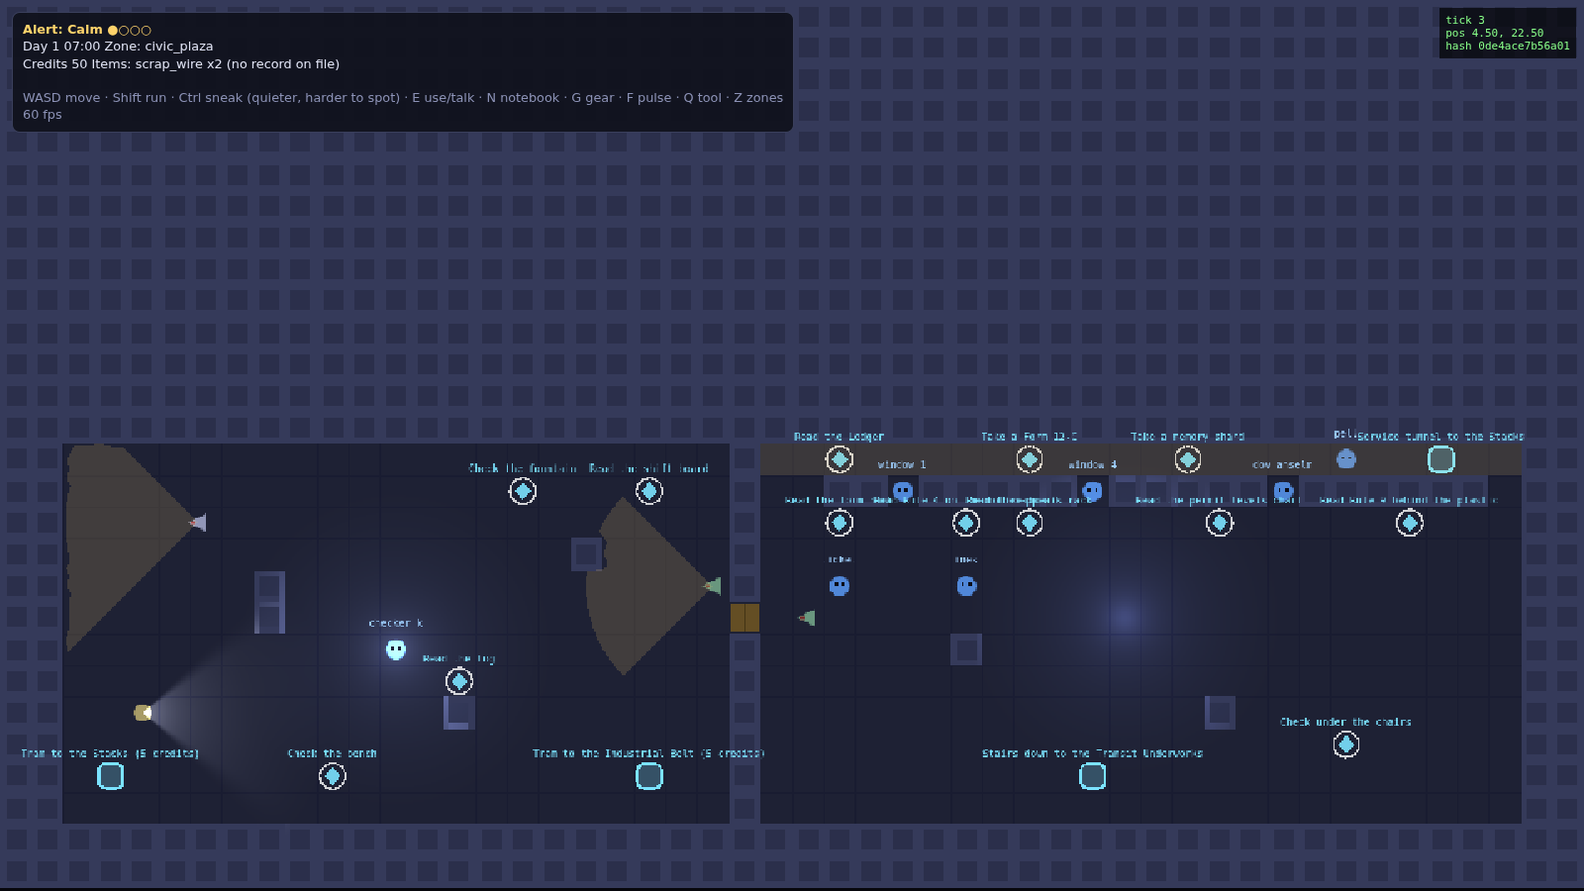
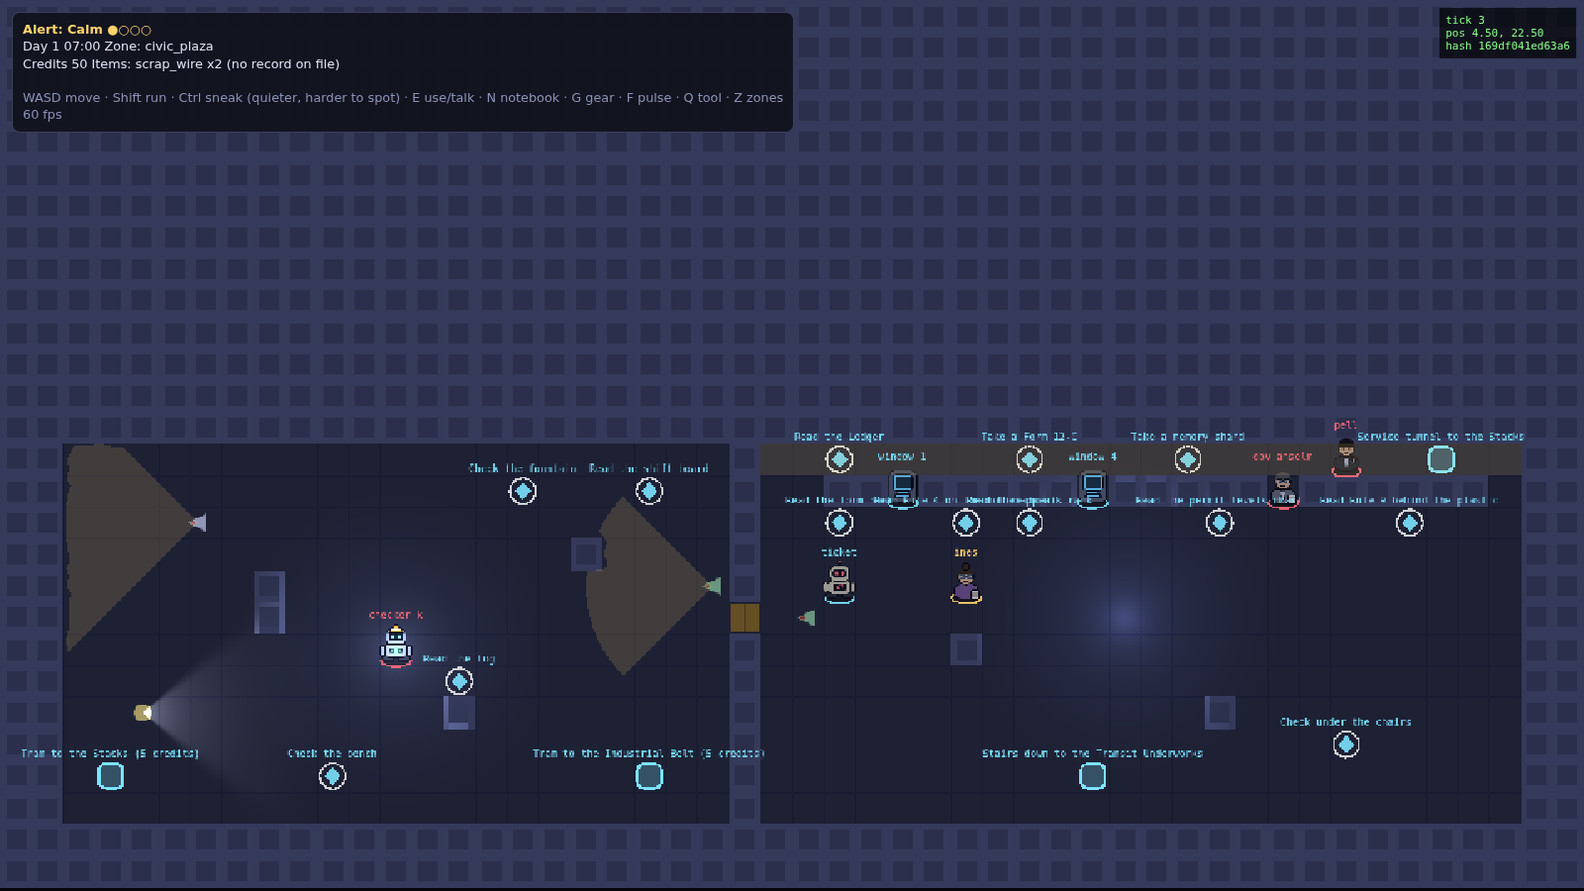
NPC look: a distinct figure for every named person, rings, idle life, Brindle's notes, debug gallery and refreshed screenshots

diff --git a/packages/client/src/render/npcLooks.ts b/packages/client/src/render/npcLooks.ts
@@ -1,0 +1,247 @@
+/**
+ * Who everybody is, to look at. Every named person gets their own little figure, drawn from a handful of shapes
+ * (a person, a robot, a machine) and a tray of accessories, so the four mentors, Pallas, Brindle and the Gate's voice
+ * can be told apart across a room. Pure canvas drawing: no art files. The table is data; add a line to add a face.
+ *
+ * Drawn on a 64x64 canvas, shown at about a tile and a bit.
+ */
+
+export type Extra =
+  | "glasses" | "headphones" | "conductor_cap" | "hardhat" | "helmet" | "antenna" | "cracked_visor" | "chest_lamp" | "badge"
+  | "scarf" | "satchel" | "pigeon" | "tie" | "apron" | "wheels" | "notes" | "eye" | "megaphone" | "train_face" | "papers"
+  | "wrench" | "bun" | "bushy" | "flat_cap" | "hood" | "cardigan" | "lab_coat" | "shawl" | "slick" | "number" | "window"
+  | "mug" | "pads" | "cone" | "sprout" | "bow" | "stubble" | "visor_scan";
+
+export interface Look {
+  form: "human" | "robot" | "machine";
+  body: string;
+  accent: string;
+  skin?: string;
+  hair?: string;
+  extras: Extra[];
+  /** The ring under their feet: gold for the four mentors, teal for those who might come with you, red for officials, cyan for machines. */
+  ring: string;
+}
+
+const GOLD = "#ffd36b";
+const TEAL = "#2affd5";
+const RED = "#ff6b7a";
+const CYAN = "#7be3ff";
+const NONE = "#5a6080";
+
+const L = (form: Look["form"], body: string, accent: string, extras: Extra[], more: Partial<Look> = {}): Look => ({ form, body, accent, extras, ring: NONE, ...more });
+
+export const NPC_LOOKS: Record<string, Look> = {
+  // the four mentors
+  ines: L("human", "#7a5a8e", "#f0e2b0", ["bun", "glasses", "papers"], { skin: "#e3b98f", hair: "#3b2a24", ring: GOLD }),
+  maren: L("human", "#2c5a8c", "#ffd36b", ["conductor_cap", "badge"], { skin: "#8d5a3b", hair: "#161616", ring: GOLD }),
+  tobias: L("human", "#4b5543", "#a9b596", ["helmet", "pads", "stubble"], { skin: "#c99a74", hair: "#9a9a9a", ring: GOLD }),
+  silas: L("human", "#b8743a", "#f4dca4", ["bushy", "cardigan", "mug"], { skin: "#e8bf9b", hair: "#dcdcdc", ring: GOLD }),
+  // the cell and its neighbours
+  wren: L("human", "#3b6c5b", "#ffb36b", ["scarf"], { skin: "#d9a98a", hair: "#2a1a14" }),
+  pallas: L("robot", "#8c9eac", TEAL, ["cracked_visor", "wrench", "antenna"], { ring: TEAL }),
+  odd_sam: L("human", "#5b3a6e", GOLD, ["flat_cap", "tie"], { skin: "#c8a07a", hair: "#2a2a2a" }),
+  doc_perrin: L("human", "#e6edf2", "#6fb7ff", ["lab_coat", "glasses", "bushy", "pigeon"], { skin: "#e2b790", hair: "#8d8d8d" }),
+  teeter: L("human", "#8a3d3d", GOLD, ["headphones"], { skin: "#d4a47e", hair: "#3a2218" }),
+  mrs_adeyemi_roth: L("human", "#7a5a8a", "#e8d8f0", ["shawl", "bun", "glasses"], { skin: "#8a5a3e", hair: "#d8d8d8" }),
+  // the Core and the Belt
+  dov_anselm: L("human", "#6e7078", "#d0d4dc", ["tie", "glasses", "papers"], { skin: "#dcb18c", hair: "#555", ring: RED }),
+  pell: L("human", "#1f2638", "#c9d4e8", ["slick", "badge", "tie"], { skin: "#dbb28e", hair: "#15151a", ring: RED }),
+  gus_varga: L("human", "#7a6a2f", "#e8c860", ["hardhat", "apron", "mug"], { skin: "#c99874", hair: "#777" }),
+  brindle: L("robot", "#c4a263", "#ffd36b", ["wheels", "notes"], { ring: TEAL }),
+  window_1: L("machine", "#566070", CYAN, ["window"], { ring: CYAN }),
+  window_4: L("machine", "#566070", CYAN, ["window"], { ring: CYAN }),
+  ticket: L("robot", "#d8d0b0", "#ff6b7a", ["number", "antenna"], { ring: CYAN }),
+  checker_k: L("robot", "#7d8794", "#6bff9a", ["cone", "chest_lamp"], { ring: RED }),
+  // under the city
+  quill: L("human", "#2b394a", TEAL, ["hood", "satchel"], { skin: "#d1a07c", hair: "#222" }),
+  conductor: L("machine", "#6a2f2f", GOLD, ["train_face"], { ring: CYAN }),
+  gate_voice: L("machine", "#20243a", "#ff5a5a", ["eye"], { ring: RED }),
+  civic_voice: L("machine", "#d8dce8", "#7be3ff", ["megaphone"], { ring: CYAN }),
+  halloran_7: L("robot", "#2b2f3d", "#ff6b7a", ["badge", "visor_scan", "tie"], { ring: RED }),
+  // beyond
+  marrow: L("human", "#5a6b3c", "#e8d8a0", ["shawl", "bushy"], { skin: "#7e5236", hair: "#cfcfcf", ring: TEAL }),
+  juniper: L("human", "#e0a040", "#fff0c0", ["bow", "sprout"], { skin: "#a8744f", hair: "#2a1a14", ring: TEAL }),
+  bede: L("human", "#5f8a3c", "#d8f0a0", ["flat_cap", "sprout"], { skin: "#d1a07c", hair: "#5a3a22" }),
+  odile: L("human", "#a98ac0", "#f0e0ff", ["shawl", "bun"], { skin: "#e6c3a4", hair: "#e0e0e0", ring: TEAL }),
+  lila_voss: L("human", "#c8707a", "#ffe0e0", ["bow"], { skin: "#e8c4a8", hair: "#4a2a2a" }),
+  host: L("robot", "#e8e0c8", "#ffb36b", ["tie", "antenna"], { ring: CYAN }),
+  mari_quade: L("human", "#c8503c", "#ffe0a0", ["apron", "flat_cap"], { skin: "#d6a67f", hair: "#222" }),
+};
+
+const HAIRS = ["#2a1a14", "#5a3a22", "#8a8a8a", "#1a1a1a", "#7a4a22"];
+const SKINS = ["#e3b98f", "#c99a74", "#8d5a3b", "#d6a67f", "#a8744f"];
+const BODIES = ["#4a6a8a", "#6a4a7a", "#4a7a5a", "#8a5a3a", "#5a5a7a"];
+
+/** The look for anyone not in the table: stable colours from their id, so a stranger is always the same stranger. */
+export function lookFor(id: string): Look {
+  const known = NPC_LOOKS[id];
+  if (known) return known;
+  let h = 7;
+  for (const ch of id) h = (h * 31 + ch.charCodeAt(0)) >>> 0;
+  const pick = <T>(a: T[], k: number): T => a[(h >>> k) % a.length]!;
+  return L("human", pick(BODIES, 1), "#e8e8f0", [pick<Extra>(["glasses", "flat_cap", "scarf", "bun", "bushy"], 4)], { skin: pick(SKINS, 7), hair: pick(HAIRS, 11) });
+}
+
+// ---- drawing ------------------------------------------------------------------------------------------------
+
+type C = CanvasRenderingContext2D;
+const S = 64;
+
+function rr(c: C, x: number, y: number, w: number, h: number, r: number, fill: string, stroke?: string): void {
+  c.beginPath();
+  c.roundRect(x, y, w, h, r);
+  c.fillStyle = fill;
+  c.fill();
+  if (stroke) { c.lineWidth = 2; c.strokeStyle = stroke; c.stroke(); }
+}
+function circle(c: C, x: number, y: number, r: number, fill: string, stroke?: string): void {
+  c.beginPath();
+  c.arc(x, y, r, 0, Math.PI * 2);
+  c.fillStyle = fill;
+  c.fill();
+  if (stroke) { c.lineWidth = 2; c.strokeStyle = stroke; c.stroke(); }
+}
+const OUT = "#0c0e18";
+
+export function drawLook(c: C, look: Look): void {
+  c.clearRect(0, 0, S, S);
+  c.lineJoin = "round";
+  c.lineCap = "round";
+  const has = (e: Extra) => look.extras.includes(e);
+  if (look.form === "human") drawHuman(c, look, has);
+  else if (look.form === "robot") drawRobot(c, look, has);
+  else drawMachine(c, look, has);
+  drawExtras(c, look, has);
+}
+
+function drawHuman(c: C, look: Look, has: (e: Extra) => boolean): void {
+  const skin = look.skin ?? "#e3b98f";
+  // shoulders and torso
+  rr(c, 12, 36, 40, 24, 12, look.body, OUT);
+  if (has("lab_coat")) { rr(c, 12, 36, 40, 24, 12, "#f2f6f8", OUT); c.fillStyle = look.body; c.fillRect(28, 38, 8, 20); }
+  if (has("apron")) { rr(c, 20, 42, 24, 18, 6, look.accent, OUT); }
+  if (has("cardigan")) { c.fillStyle = look.accent; c.fillRect(30, 38, 4, 20); for (const y of [42, 48, 54]) circle(c, 32, y, 1.6, "#5a3a1e"); }
+  // neck and head
+  rr(c, 28, 33, 8, 6, 2, skin);
+  circle(c, 32, 24, 13, skin, OUT);
+  // hair behind / on top
+  const hair = look.hair ?? "#2a1a14";
+  if (!has("flat_cap") && !has("conductor_cap") && !has("hardhat") && !has("helmet") && !has("hood") && !has("headphones")) {
+    c.beginPath(); c.arc(32, 22, 13.5, Math.PI * 1.02, Math.PI * 1.98); c.closePath(); c.fillStyle = hair; c.fill();
+  }
+  if (has("slick")) { c.beginPath(); c.arc(32, 21, 13.5, Math.PI, Math.PI * 2); c.lineTo(45, 24); c.quadraticCurveTo(32, 15, 19, 24); c.fillStyle = hair; c.fill(); }
+  // face
+  circle(c, 27.5, 25, 1.9, OUT); circle(c, 36.5, 25, 1.9, OUT);
+  c.strokeStyle = OUT; c.lineWidth = 1.6; c.beginPath(); c.moveTo(29, 31); c.quadraticCurveTo(32, 33, 35, 31); c.stroke();
+}
+
+function drawRobot(c: C, look: Look, _has: (e: Extra) => boolean): void {
+  // treads / base
+  rr(c, 10, 52, 18, 9, 4, "#2a2f3c", OUT); rr(c, 36, 52, 18, 9, 4, "#2a2f3c", OUT);
+  // body
+  rr(c, 14, 33, 36, 22, 7, look.body, OUT);
+  rr(c, 22, 39, 20, 9, 3, "#14172a");
+  c.fillStyle = look.accent; c.fillRect(25, 42, 14, 3);
+  // head
+  rr(c, 16, 9, 32, 25, 8, look.body, OUT);
+  rr(c, 20, 15, 24, 12, 5, "#0b1220");
+  circle(c, 27, 21, 3, look.accent); circle(c, 37, 21, 3, look.accent);
+  // arms
+  rr(c, 6, 36, 8, 16, 4, look.body, OUT); rr(c, 50, 36, 8, 16, 4, look.body, OUT);
+}
+
+function drawMachine(c: C, look: Look, has: (e: Extra) => boolean): void {
+  rr(c, 10, 6, 44, 52, 10, look.body, OUT);
+  rr(c, 15, 12, 34, 28, 7, "#0b1220");
+  rr(c, 18, 44, 28, 8, 3, "#14172a");
+  c.fillStyle = look.accent; c.fillRect(22, 47, 20, 2);
+  if (!has("eye") && !has("train_face") && !has("window") && !has("megaphone")) circle(c, 32, 26, 6, look.accent);
+}
+
+function drawExtras(c: C, look: Look, has: (e: Extra) => boolean): void {
+  const skin = look.skin ?? "#e3b98f";
+  if (has("glasses")) {
+    c.strokeStyle = "#1a1a28"; c.lineWidth = 2;
+    c.strokeRect(22, 21, 8, 6); c.strokeRect(34, 21, 8, 6);
+    c.beginPath(); c.moveTo(30, 24); c.lineTo(34, 24); c.stroke();
+    c.fillStyle = "rgba(160,220,255,0.35)"; c.fillRect(22, 21, 8, 6); c.fillRect(34, 21, 8, 6);
+  }
+  if (has("headphones")) {
+    c.strokeStyle = "#202330"; c.lineWidth = 4; c.beginPath(); c.arc(32, 22, 14, Math.PI * 1.05, Math.PI * 1.95); c.stroke();
+    rr(c, 14, 20, 6, 11, 3, look.accent, OUT); rr(c, 44, 20, 6, 11, 3, look.accent, OUT);
+  }
+  if (has("conductor_cap")) {
+    c.beginPath(); c.arc(32, 18, 14, Math.PI, Math.PI * 2); c.closePath(); c.fillStyle = look.body; c.fill(); c.strokeStyle = OUT; c.lineWidth = 2; c.stroke();
+    rr(c, 17, 17, 30, 5, 2, "#1a1f2e", OUT); rr(c, 28, 10, 8, 6, 2, look.accent, OUT);
+  }
+  if (has("hardhat")) {
+    c.beginPath(); c.arc(32, 19, 14.5, Math.PI, Math.PI * 2); c.closePath(); c.fillStyle = "#f2c230"; c.fill(); c.strokeStyle = OUT; c.lineWidth = 2; c.stroke();
+    rr(c, 15, 18, 34, 5, 2, "#d9a81e", OUT); rr(c, 29, 8, 6, 8, 2, "#d9a81e", OUT);
+  }
+  if (has("helmet")) {
+    c.beginPath(); c.arc(32, 20, 15, Math.PI * 0.95, Math.PI * 2.05); c.closePath(); c.fillStyle = "#59634e"; c.fill(); c.strokeStyle = OUT; c.lineWidth = 2; c.stroke();
+    rr(c, 20, 19, 24, 7, 3, "rgba(20,28,40,0.75)", OUT);
+    c.fillStyle = look.accent; c.fillRect(29, 9, 6, 4);
+  }
+  if (has("flat_cap")) {
+    c.beginPath(); c.ellipse(32, 15, 15, 7, 0, Math.PI, Math.PI * 2); c.fillStyle = look.body; c.fill(); c.strokeStyle = OUT; c.lineWidth = 2; c.stroke();
+    rr(c, 30, 13, 20, 5, 2, look.body, OUT);
+  }
+  if (has("hood")) {
+    c.beginPath(); c.arc(32, 24, 17, Math.PI * 0.85, Math.PI * 2.15); c.lineTo(46, 38); c.lineTo(18, 38); c.closePath(); c.fillStyle = look.body; c.fill(); c.strokeStyle = OUT; c.lineWidth = 2; c.stroke();
+    circle(c, 32, 26, 10, skin, OUT); circle(c, 28.5, 27, 1.7, OUT); circle(c, 35.5, 27, 1.7, OUT);
+    c.fillStyle = look.accent; c.fillRect(24, 22, 16, 2);
+  }
+  if (has("bun")) { circle(c, 32, 8, 6, look.hair ?? "#3b2a24", OUT); }
+  if (has("bushy")) {
+    for (const [x, y, r] of [[18, 22, 7], [46, 22, 7], [24, 12, 8], [40, 12, 8], [32, 9, 8]] as const) circle(c, x, y, r, look.hair ?? "#ddd", OUT);
+    circle(c, 32, 24, 11.5, look.skin ?? "#e8bf9b"); circle(c, 28, 25, 1.8, OUT); circle(c, 36, 25, 1.8, OUT);
+  }
+  if (has("stubble")) { c.fillStyle = "rgba(60,50,45,0.45)"; c.beginPath(); c.arc(32, 28, 8, 0.1, Math.PI - 0.1); c.fill(); }
+  if (has("scarf")) { rr(c, 20, 34, 24, 7, 3, look.accent, OUT); rr(c, 38, 38, 6, 14, 3, look.accent, OUT); }
+  if (has("shawl")) { c.beginPath(); c.moveTo(12, 40); c.quadraticCurveTo(32, 54, 52, 40); c.lineTo(46, 56); c.lineTo(18, 56); c.closePath(); c.fillStyle = look.accent; c.fill(); c.strokeStyle = OUT; c.lineWidth = 2; c.stroke(); }
+  if (has("tie")) { c.beginPath(); c.moveTo(32, 38); c.lineTo(36, 42); c.lineTo(34, 54); c.lineTo(32, 56); c.lineTo(30, 54); c.lineTo(28, 42); c.closePath(); c.fillStyle = look.accent; c.fill(); c.strokeStyle = OUT; c.lineWidth = 1.5; c.stroke(); }
+  if (has("bow")) { c.fillStyle = look.accent; c.beginPath(); c.moveTo(32, 10); c.lineTo(22, 5); c.lineTo(22, 15); c.closePath(); c.moveTo(32, 10); c.lineTo(42, 5); c.lineTo(42, 15); c.closePath(); c.fill(); circle(c, 32, 10, 2.5, "#fff"); }
+  if (has("badge")) { circle(c, 42, 44, 4.5, look.accent, OUT); c.fillStyle = OUT; c.fillRect(41, 42, 2, 4); }
+  if (has("pads")) { rr(c, 8, 34, 14, 9, 4, "#6a7560", OUT); rr(c, 42, 34, 14, 9, 4, "#6a7560", OUT); }
+  if (has("satchel")) { c.strokeStyle = "#8a6a3a"; c.lineWidth = 3; c.beginPath(); c.moveTo(18, 38); c.lineTo(46, 58); c.stroke(); rr(c, 38, 48, 14, 11, 3, "#a98450", OUT); }
+  if (has("papers")) { rr(c, 40, 46, 13, 15, 2, "#f4f0e0", OUT); c.fillStyle = "#b8b4a0"; for (const y of [50, 53, 56]) c.fillRect(42, y, 9, 1.4); }
+  if (has("mug")) { rr(c, 6, 46, 10, 10, 3, "#e8e0d0", OUT); c.strokeStyle = OUT; c.lineWidth = 2; c.beginPath(); c.arc(17, 51, 3, -1.2, 1.2); c.stroke(); c.fillStyle = "rgba(255,255,255,0.5)"; c.fillRect(8, 43, 2, 3); c.fillRect(12, 42, 2, 4); }
+  if (has("pigeon")) {
+    circle(c, 52, 36, 6.5, "#9aa4b8", OUT); circle(c, 56, 31, 3.6, "#9aa4b8", OUT); circle(c, 57, 30, 0.9, OUT);
+    c.fillStyle = "#e8b060"; c.beginPath(); c.moveTo(59, 31); c.lineTo(62, 32.5); c.lineTo(59, 33.5); c.fill();
+    c.fillStyle = "#6e7890"; c.beginPath(); c.moveTo(46, 36); c.lineTo(41, 40); c.lineTo(47, 41); c.fill();
+  }
+  if (has("sprout")) { c.strokeStyle = "#3f9a3c"; c.lineWidth = 2.5; c.beginPath(); c.moveTo(52, 58); c.lineTo(52, 48); c.stroke(); c.fillStyle = "#6fd05a"; c.beginPath(); c.ellipse(48, 47, 5, 2.6, -0.5, 0, 7); c.ellipse(56, 45, 5, 2.6, 0.5, 0, 7); c.fill(); }
+  // robots and machines
+  if (has("antenna")) { c.strokeStyle = OUT; c.lineWidth = 3; c.beginPath(); c.moveTo(32, 9); c.lineTo(32, 2); c.stroke(); circle(c, 32, 3, 3, look.accent, OUT); }
+  if (has("cracked_visor")) { c.strokeStyle = "#ff5a5a"; c.lineWidth = 1.6; c.beginPath(); c.moveTo(34, 15); c.lineTo(31, 20); c.lineTo(36, 23); c.lineTo(33, 27); c.stroke(); }
+  if (has("chest_lamp")) { circle(c, 32, 44, 4.5, look.accent, OUT); circle(c, 32, 44, 8, "rgba(107,255,154,0.25)"); }
+  if (has("wrench")) { c.strokeStyle = "#cfd6e0"; c.lineWidth = 3; c.beginPath(); c.moveTo(10, 56); c.lineTo(4, 38); c.stroke(); c.beginPath(); c.arc(4, 36, 4, 0.3, 5.9); c.stroke(); }
+  if (has("wheels")) { for (const x of [18, 46]) { circle(c, x, 56, 7, "#3a3f4c", OUT); circle(c, x, 56, 2.5, look.accent); } }
+  if (has("notes")) { c.fillStyle = "#fff6c0"; c.font = "bold 14px monospace"; c.fillText("♪", 46, 14); c.fillText("♫", 6, 20); }
+  if (has("number")) { rr(c, 22, 38, 20, 12, 2, "#101420"); c.fillStyle = look.accent; c.font = "bold 11px monospace"; c.fillText("42", 26, 48); }
+  if (has("cone")) { c.beginPath(); c.moveTo(32, 0); c.lineTo(44, 14); c.lineTo(20, 14); c.closePath(); c.fillStyle = "#ff9a3c"; c.fill(); c.strokeStyle = OUT; c.lineWidth = 2; c.stroke(); c.fillStyle = "#fff"; c.fillRect(25, 8, 14, 2.5); }
+  if (has("visor_scan")) { c.fillStyle = "rgba(255,107,122,0.55)"; c.fillRect(20, 20, 24, 3); }
+  if (has("eye")) {
+    circle(c, 32, 26, 12, "#05070f", OUT); circle(c, 32, 26, 8, look.accent); circle(c, 32, 26, 3.5, "#fff");
+    c.strokeStyle = "rgba(255,90,90,0.5)"; c.lineWidth = 1.5; c.beginPath(); c.arc(32, 26, 15, 0, 7); c.stroke();
+  }
+  if (has("train_face")) {
+    circle(c, 24, 27, 5, look.accent, OUT); circle(c, 40, 27, 5, look.accent, OUT);
+    c.fillStyle = "#14172a"; c.fillRect(22, 15, 20, 4); c.fillStyle = look.accent; c.fillRect(24, 16, 16, 2);
+    c.strokeStyle = "#cfd6e0"; c.lineWidth = 3; c.beginPath(); c.moveTo(12, 56); c.lineTo(52, 56); c.stroke();
+  }
+  if (has("window")) { rr(c, 17, 14, 30, 24, 3, "#0b1220"); c.strokeStyle = look.accent; c.lineWidth = 2; c.strokeRect(19, 16, 26, 20); c.fillStyle = "rgba(123,227,255,0.18)"; c.fillRect(19, 16, 26, 20); c.fillStyle = look.accent; c.fillRect(24, 40, 16, 3); }
+  if (has("megaphone")) { c.beginPath(); c.moveTo(18, 24); c.lineTo(46, 12); c.lineTo(46, 40); c.lineTo(18, 30); c.closePath(); c.fillStyle = look.accent; c.fill(); c.strokeStyle = OUT; c.lineWidth = 2; c.stroke(); rr(c, 10, 22, 10, 10, 3, "#3a4258", OUT); }
+}
+
+/** The glow colour of a figure's ring, also used for its name tag. */
+export const ringOf = (id: string): string => lookFor(id).ring;
+
+/** Whether a figure bobs, hums or pulses (idle life), and how: a gentle sway for everyone, a pulse for machines. */
+export const idleOf = (id: string): "sway" | "pulse" | "hum" => {
+  const l = lookFor(id);
+  return id === "brindle" ? "hum" : l.form === "machine" ? "pulse" : "sway";
+};

diff --git a/packages/client/src/render/PhaserRenderer.ts b/packages/client/src/render/PhaserRenderer.ts
@@ -1,3 +1,4 @@
+import { drawLook, idleOf, lookFor, ringOf } from "./npcLooks.ts";
 import Phaser from "phaser";
 import { PALETTES, canvasColours } from "../palette.ts";
 import { hasTag, isSolid, pickupAvailable, zoneAt, type Command, type RobotMode, type Sim } from "@qh/core";
@@ -90,6 +91,8 @@ class QuietScene extends Phaser.Scene {
   private prevRobots = new Map<string, { x: number; y: number }>();
   private cones!: Phaser.GameObjects.Graphics;
   private npcMarks = new Map<string, [Phaser.GameObjects.Image, Phaser.GameObjects.Text]>();
+  /** Each figure's ring and shadow, and the little notes some of them hum. */
+  private npcFx = new Map<string, { base: Phaser.GameObjects.Graphics; phase: number; idle: "sway" | "pulse" | "hum"; notes: Phaser.GameObjects.Text[] }>();
   private propMarks = new Map<string, Phaser.GameObjects.GameObject[]>();
   private pickupMarks = new Map<string, Phaser.GameObjects.GameObject[]>();
   private promptText!: Phaser.GameObjects.Text;
@@ -112,7 +115,7 @@ class QuietScene extends Phaser.Scene {
   create(): void {
     this.renderedMap = this.sim.state.map;
     // The scene object is reused when it restarts, so forget what was drawn for the last map.
-    for (const m of [this.doorSprites, this.robotSprites, this.prevRobots, this.npcMarks, this.propMarks, this.pickupMarks] as Map<string, unknown>[]) m.clear();
+    for (const m of [this.doorSprites, this.robotSprites, this.prevRobots, this.npcMarks, this.npcFx, this.propMarks, this.pickupMarks] as Map<string, unknown>[]) m.clear();
     if (!this.subscribed) {
       this.subscribed = true;
       this.sim.bus.subscribe((e) => {
@@ -280,12 +283,24 @@ class QuietScene extends Phaser.Scene {
         .setDepth(60);
     }
     for (const n of this.sim.world.npcs) {
-      const sprite = this.add.image((n.x + 0.5) * TILE, (n.y + 0.5) * TILE, "npc").setLighting(true).setDepth(8);
+      const key = `npc_${n.id}`;
+      if (!this.textures.exists(key)) {
+        canvasTexture(this, key, 64, (c) => drawLook(c, lookFor(n.id)), (c) => { c.fillStyle = FLAT; c.fillRect(0, 0, 64, 64); });
+      }
+      const ringHex = ringOf(n.id);
+      const ringInt = parseInt(ringHex.slice(1), 16);
+      const base = this.add.graphics().setDepth(7);
+      base.fillStyle(0x000000, 0.35).fillEllipse(0, 0, 26, 9);
+      base.lineStyle(2, ringInt, 0.9).strokeEllipse(0, 0, 30, 11);
+      const idle = idleOf(n.id);
+      const notes = idle === "hum" ? [0, 1, 2].map(() => this.add.text(0, 0, "♪", { fontFamily: "monospace", fontSize: "13px", color: "#fff6c0" }).setDepth(61)) : [];
+      const sprite = this.add.image((n.x + 0.5) * TILE, (n.y + 0.5) * TILE, key).setScale(0.62).setLighting(true).setDepth(8);
       const label = this.add
-        .text((n.x + 0.5) * TILE, n.y * TILE - 4, n.id.replace(/_/g, " "), { fontFamily: "monospace", fontSize: "10px", color: "#9fd0ff" })
+        .text((n.x + 0.5) * TILE, n.y * TILE - 4, n.id.replace(/_/g, " "), { fontFamily: "monospace", fontSize: "10px", color: ringHex === "#5a6080" ? "#9fd0ff" : ringHex })
         .setOrigin(0.5, 1)
         .setDepth(60);
       this.npcMarks.set(n.id, [sprite, label]);
+      this.npcFx.set(n.id, { base, phase: (n.x * 7 + n.y * 13) % 6, idle, notes });
     }
     for (const r of this.sim.state.robots) {
       this.robotSprites.set(
@@ -534,8 +549,20 @@ class QuietScene extends Phaser.Scene {
     for (const [id, [sprite, label]] of this.npcMarks) {
       const n = this.sim.state.npcs[id];
       if (!n) continue;
-      sprite.setPosition(n.x * TILE, n.y * TILE).setVisible(!n.away);
-      label.setPosition(n.x * TILE, (n.y - 0.5) * TILE - 4).setVisible(!n.away);
+      const fx = this.npcFx.get(id);
+      const t = this.time.now / 1000;
+      const calm = this.deps.settings().reduceMotion;
+      const sway = fx && !calm ? Math.sin(t * 2 + fx.phase) * 1.6 : 0;
+      sprite.setPosition(n.x * TILE, n.y * TILE - 6 + sway).setVisible(!n.away);
+      if (fx && fx.idle === "pulse" && !calm) sprite.setScale(0.62 + Math.sin(t * 3 + fx.phase) * 0.025);
+      label.setPosition(n.x * TILE, (n.y - 0.5) * TILE - 12).setVisible(!n.away);
+      if (fx) {
+        fx.base.setPosition(n.x * TILE, n.y * TILE + 12).setVisible(!n.away);
+        fx.notes.forEach((note, i) => {
+          const u = calm ? 0.5 : (t * 0.45 + i / fx.notes.length) % 1;
+          note.setPosition(n.x * TILE + 10 + Math.sin(u * 6 + i) * 6, n.y * TILE - 14 - u * 26).setAlpha(1 - u).setVisible(!n.away);
+        });
+      }
     }
     for (const pr of this.sim.world.props) {
       const on = pr.shows === undefined || this.sim.state.hub.grown.includes(pr.shows);

diff --git a/packages/client/src/debug/npcGallery.ts b/packages/client/src/debug/npcGallery.ts
@@ -1,0 +1,20 @@
+// Debug builds only (?npcs): every named figure on one sheet, for reviewing how people look.
+import { NPC_LOOKS, drawLook, lookFor } from "../render/npcLooks.ts";
+
+export function mountNpcGallery(): void {
+  document.body.innerHTML = "";
+  Object.assign(document.body.style, { background: "#161a2a", margin: "0", padding: "16px", color: "#c8cce6", font: "12px monospace" });
+  const grid = document.createElement("div");
+  Object.assign(grid.style, { display: "grid", gridTemplateColumns: "repeat(10, 128px)", gap: "10px" });
+  for (const id of Object.keys(NPC_LOOKS)) {
+    const cell = document.createElement("div");
+    cell.style.textAlign = "center";
+    const c = document.createElement("canvas");
+    c.width = c.height = 64;
+    c.style.cssText = `width:128px;height:128px;background:#0f1220;border-radius:10px;border:2px solid ${lookFor(id).ring}`;
+    drawLook(c.getContext("2d")!, lookFor(id));
+    cell.append(c, Object.assign(document.createElement("div"), { textContent: id }));
+    grid.append(cell);
+  }
+  document.body.append(grid);
+}

diff --git a/packages/client/src/main.ts b/packages/client/src/main.ts
@@ -87,6 +87,7 @@ if (saves.info("autosave")) menu.show("An autosave was found. Load it to continu
 
 new PhaserRenderer().start(host, sim, { controller, hud, toolbelt: gear.toolbelt, isPaused: () => menu.visible || notebook.visible || settingsPanel.visible, settings: () => settings.get() });
 
+if (__QH_DEBUG__ && new URLSearchParams(location.search).has("npcs")) void import("./debug/npcGallery.ts").then((m) => m.mountNpcGallery());
 if (__QH_DEBUG__) {
   void import("./debug/overlay.ts").then((m) => m.mountDebugOverlay(sim));
 }

diff --git a/docs/screenshots/README.md b/docs/screenshots/README.md
@@ -10,6 +10,7 @@ Whole-map views rendered by the real Phaser client in headless Ungoogled Chromiu
 | `underworks.png` | the Transit Underworks: platform, tunnel and drain, junction, signal room, Platform 7 |
 | `gate.png` | the Gate: service platform, corridor, hall, Annex, threshold |
 | `outside.png` | the far side (a stub until the closing scene) |
+| `npc-gallery.png` | every named figure on one sheet (debug build, `?npcs=1`) |
 | `stacks_slice.png`, `robot_range.png` | the older vertical-slice and robot-range test maps |
 
 To regenerate: `QH_DEBUG=1 pnpm --filter @qh/client exec vite build --outDir /tmp/dist-debug`, serve that folder, and open `?map=<stacks|civic|belt|underworks|gate|outside|slice|range>&overview=1`.
@@ -19,8 +20,10 @@ To regenerate: `QH_DEBUG=1 pnpm --filter @qh/client exec vite build --outDir /tm
 - **Civic Core back office was cluttered.** Four pickups, Pell and an exit shared one row and their labels overlapped. Spread out and the labels shortened.
 - `?map=outside` was missing.
 
+## NPC look (done)
+Every named person now has their own figure, drawn in code from `packages/client/src/render/npcLooks.ts` (a table: add a line to add a face; anyone not listed gets stable colours from their id). Mentors have a gold ring and name tag, people who might come with you teal, officials red, machines cyan. Idle life: a gentle sway, machines pulse, Brindle hums floating notes. Reduce-motion turns the movement off. See `npc-gallery.png`.
+
 ## Seen and not fixed (decisions for you)
-- Every NPC is the same blue blob, so the four mentors, Pallas and the Gate's voice cannot be told apart except by their labels.
 - The Gate hall is a large empty grey room; nothing marks the Gate itself except the door and the exit marker.
 - Doors that open and shut on timers (the presses, the Underworks trains) look like thin marks in a still frame; I could not judge their animation from a screenshot.
 - The HUD panel covers the top-left of every map, and labels are tiny at overview zoom (they are fine at play zoom).
